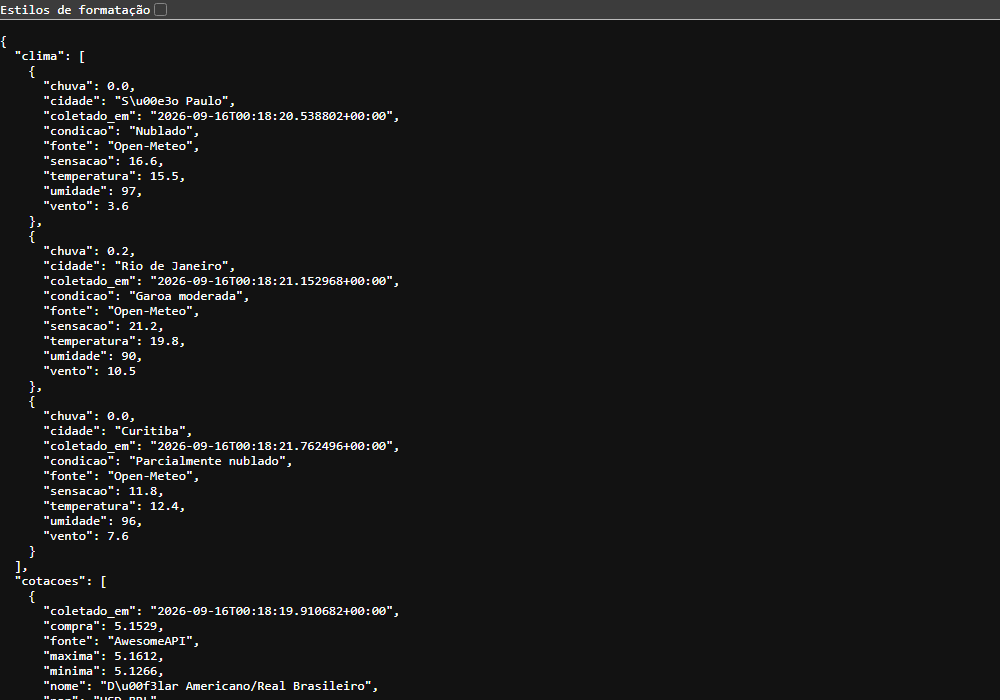
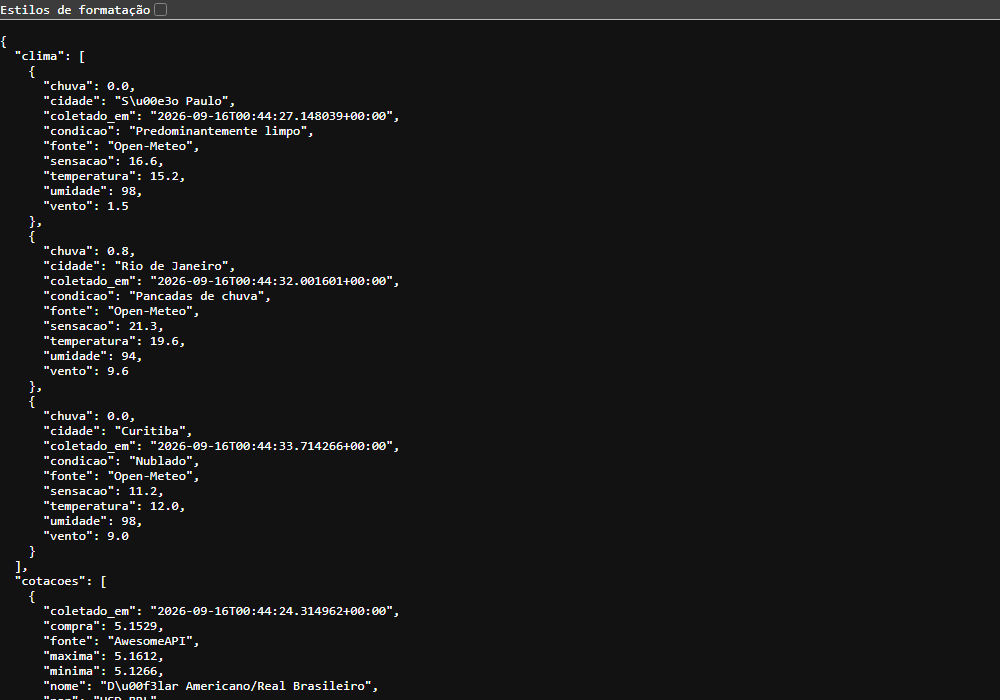
Reescreve o README, recria o .env.example e atualiza evidencias

diff --git a/templates/dashboard.html b/templates/dashboard.html
@@ -14,7 +14,7 @@
 </head>
 <body>
 
-<!-- Símbolos meteorológicos (grupos de código WMO) — ícones de linha, desenhados uma vez -->
+<!-- Símbolos meteorológicos (grupos de código WMO), ícones de linha, desenhados uma vez -->
 <svg width="0" height="0" style="position:absolute" aria-hidden="true">
   <symbol id="i-sol" viewBox="0 0 24 24"><circle cx="12" cy="12" r="4.5"/><path d="M12 2v2.5M12 19.5V22M2 12h2.5M19.5 12H22M4.9 4.9l1.8 1.8M17.3 17.3l1.8 1.8M4.9 19.1l1.8-1.8M17.3 6.7l1.8-1.8"/></symbol>
   <symbol id="i-sol-nuvem" viewBox="0 0 24 24"><circle cx="8" cy="7.5" r="3"/><path d="M8 1.5V3M8 12v1.5M2 7.5h1.5M12.5 7.5H14M3.8 3.3l1 1M11.2 11.7l1 1M3.8 11.7l1-1M11.2 3.3l1-1"/><path d="M18 21.5a3.5 3.5 0 0 0 .6-6.95A5.5 5.5 0 0 0 8 15.9 2.8 2.8 0 0 0 8.5 21.5H18z"/></symbol>
@@ -101,7 +101,7 @@
         </div>
       </article>
       {% else %}
-      <p class="empty">Nenhuma cotação ainda — sincronize para coletar.</p>
+      <p class="empty">Nenhuma cotação ainda. Sincronize para coletar.</p>
       {% endfor %}
     </div>
   </section>
@@ -159,7 +159,7 @@
               <polygon class="area" points="{{ sp.area }}"></polygon>
               <polyline class="line" points="{{ sp.linha }}"></polyline>
             </svg>
-            {% else %}<b>—</b>{% endif %}
+            {% else %}<b>-</b>{% endif %}
           </span>
         </div>
       </article>
@@ -202,7 +202,7 @@
         {% endif %}
       </div>
       {% else %}
-      <p class="empty">Nenhum alerta aberto — todos os indicadores dentro dos limites.</p>
+      <p class="empty">Nenhum alerta aberto. Todos os indicadores dentro dos limites.</p>
       {% endfor %}
 
       {% if resolvidos %}

diff --git a/static/style.css b/static/style.css
@@ -1,5 +1,5 @@
 /* =========================================================
-   Central de Monitoramento — sistema visual
+   Central de Monitoramento - sistema visual
    Painel de instrumentos: dark-first, um acento, semânticas à parte.
    ========================================================= */
 :root {

diff --git a/app.py b/app.py
@@ -99,7 +99,7 @@ def sincronizar() -> dict:
                 } for c in lista_clima_ok])
                 resumo["clima"] = len(lista_clima_ok)
 
-            # 4: automação — regras geram alertas (sem duplicar um alerta ainda aberto)
+            # 4: automação: regras geram alertas (sem duplicar um alerta ainda aberto)
             alertas = automacao.avaliar_cotacoes(lista_cotacoes) + automacao.avaliar_clima(lista_clima_ok)
             abertos = {a.get("Titulo") for a in airtable.listar_registros("Alertas", 100, filtro="NOT({Resolvido})")}
             novos = [a for a in alertas if a["Titulo"] not in abertos]

diff --git a/services/automacao.py b/services/automacao.py
@@ -56,7 +56,7 @@ def _alerta_clima(c, titulo, sev, valor, limite):
         "Tipo": "Clima",
         "Severidade": sev,
         "Mensagem": f"{c['cidade']}: {c['temperatura']}°C, sensação {c['sensacao']}°C, "
-                    f"umidade {c['umidade']}%, chuva {c['chuva']} mm — {c['condicao']}.",
+                    f"umidade {c['umidade']}%, chuva {c['chuva']} mm ({c['condicao']}).",
         "Valor": valor,
         "Limite": limite,
         "CriadoEm": _agora(),

diff --git a/services/cotacoes.py b/services/cotacoes.py
@@ -1,4 +1,4 @@
-"""Integração com a AwesomeAPI (cotações de moedas) — API pública, sem autenticação."""
+"""Integração com a AwesomeAPI (cotações de moedas). API pública, sem autenticação."""
 from datetime import datetime, timezone
 import requests
 

diff --git a/services/clima.py b/services/clima.py
@@ -1,4 +1,4 @@
-"""Integração com a Open-Meteo (clima) — API pública, sem autenticação."""
+"""Integração com a Open-Meteo (clima). API pública, sem autenticação."""
 from datetime import datetime, timezone
 import requests
 

diff --git a/docs/parte-teorica.md b/docs/parte-teorica.md
@@ -2,7 +2,7 @@
 
 **Projeto:** Central Inteligente de Monitoramento: Integrando APIs para Automatizar Processos e Gerar Insights
 **Disciplina:** Integração e API – UNIFECAF, 2º semestre
-**Aluno:** _(seu nome)_
+**Aluno:** Kenedy Pereira
 
 ---
 
@@ -14,8 +14,8 @@ Na prática, isso significa que um colaborador precisa abrir várias telas para 
 
 Para tornar o problema concreto, este projeto adota o cenário de uma **equipe financeira e de operações** que precisa acompanhar diariamente dois fatores externos que afetam diretamente o negócio:
 
-- **Câmbio** — o valor do dólar e do euro impacta compras de insumos importados, precificação e contratos; o bitcoin foi incluído como ativo de alta volatilidade para demonstrar regras de variação.
-- **Clima** — temperatura extrema e chuva forte afetam logística, entregas, consumo de energia e segurança de equipes em campo.
+- **Câmbio:** o valor do dólar e do euro impacta compras de insumos importados, precificação e contratos; o bitcoin foi incluído como ativo de alta volatilidade para demonstrar regras de variação.
+- **Clima:** temperatura extrema e chuva forte afetam logística, entregas, consumo de energia e segurança de equipes em campo.
 
 Hoje essas informações são consultadas em sites diferentes, sem histórico consolidado e sem qualquer aviso automático quando um limite relevante é ultrapassado.
 
@@ -38,7 +38,7 @@ A solução foi construída em Python com Flask por ser uma stack leve, legível
 - **Endpoint:** `GET https://economia.awesomeapi.com.br/last/USD-BRL,EUR-BRL,BTC-BRL`
 - **Autenticação:** não exigida no plano público.
 - **Dados obtidos:** compra (`bid`), venda (`ask`), variação percentual (`pctChange`), máxima e mínima do dia.
-- **Justificativa:** é uma API brasileira, gratuita, com alta disponibilidade e documentação clara. Retorna múltiplos pares em uma única chamada, o que reduz o número de requisições. Os dados chegam como *strings*, o que exige tratamento explícito — um bom exemplo didático de manipulação de dados.
+- **Justificativa:** é uma API brasileira, gratuita, com alta disponibilidade e documentação clara. Retorna múltiplos pares em uma única chamada, o que reduz o número de requisições. Os dados chegam como *strings*, o que exige tratamento explícito, um bom exemplo didático de manipulação de dados.
 
 ### 3.2 Open-Meteo – Dados meteorológicos
 
@@ -127,7 +127,7 @@ Melhorias possíveis para produção: autenticação de usuários (OAuth/OIDC), 
 
 ### LGPD
 
-A solução foi desenhada com o princípio da **minimização**: não coleta, armazena nem trafega dados pessoais — apenas indicadores econômicos e meteorológicos públicos. Isso a coloca fora do escopo material da LGPD. Ainda assim, caso o projeto evolua para incluir dados de clientes (ex.: cruzar clima com endereços de entrega), seriam necessários: base legal definida (execução de contrato ou legítimo interesse), registro das operações de tratamento, controle de acesso por perfil, política de retenção e descarte, e canal para exercício de direitos dos titulares.
+A solução foi desenhada com o princípio da **minimização**: não coleta, armazena nem trafega dados pessoais, apenas indicadores econômicos e meteorológicos públicos. Isso a coloca fora do escopo material da LGPD. Ainda assim, caso o projeto evolua para incluir dados de clientes (ex.: cruzar clima com endereços de entrega), seriam necessários: base legal definida (execução de contrato ou legítimo interesse), registro das operações de tratamento, controle de acesso por perfil, política de retenção e descarte, e canal para exercício de direitos dos titulares.
 
 ### Ética
 
@@ -137,12 +137,12 @@ A solução foi desenhada com o princípio da **minimização**: não coleta, ar
 
 ### Governança das integrações
 
-- **Catálogo de integrações:** cada API tem um módulo próprio em `services/`, com URL, autenticação e formato documentados — fácil de auditar e substituir.
+- **Catálogo de integrações:** cada API tem um módulo próprio em `services/`, com URL, autenticação e formato documentados, fácil de auditar e substituir.
 - **Configuração externa:** limites, cidades e moedas ficam no `.env`, permitindo mudar regras sem alterar código.
 - **Observabilidade:** logs estruturados de cada sincronização (quantidades e erros) e resumo retornado pela API.
 - **Controle de mudanças:** versionamento no Git com `.env` fora do repositório.
 - **Ciclo de vida dos dados:** o Airtable permite visualizações, filtros e exclusão em massa; recomenda-se política de retenção (ex.: 90 dias) para o histórico.
-- **Dependência de terceiros:** o risco de descontinuidade das APIs gratuitas é mitigado pela arquitetura em módulos — trocar de provedor exige alterar apenas um arquivo.
+- **Dependência de terceiros:** o risco de descontinuidade das APIs gratuitas é mitigado pela arquitetura em módulos: trocar de provedor exige alterar apenas um arquivo.
 
 ## 8. Conclusão
 

diff --git a/evidencias/README.md b/evidencias/README.md
@@ -10,7 +10,7 @@ Linha de estado em palavras (colorida pela pior severidade), tiles de câmbio co
 
 ## Integração com as APIs externas
 
-### `GET /api/ao-vivo` — resposta das duas APIs já tratada (strings → números, código WMO → texto)
+### `GET /api/ao-vivo`: resposta das duas APIs já tratada (strings → números, código WMO → texto)
 ![API ao vivo](02-api-ao-vivo.png)
 
 ## Dados persistidos no Airtable, lidos pela API própria
@@ -18,7 +18,7 @@ Linha de estado em palavras (colorida pela pior severidade), tiles de câmbio co
 ### `GET /api/cotacoes`
 ![API cotações](03-api-cotacoes.png)
 
-### `GET /api/alertas` — alerta criado pela automação e resolvido pelo dashboard (`Resolvido: true`)
+### `GET /api/alertas`: alerta criado pela automação e resolvido pelo dashboard (`Resolvido: true`)
 ![API alertas](04-api-alertas.png)
 
 ## Banco No-Code (Airtable)
